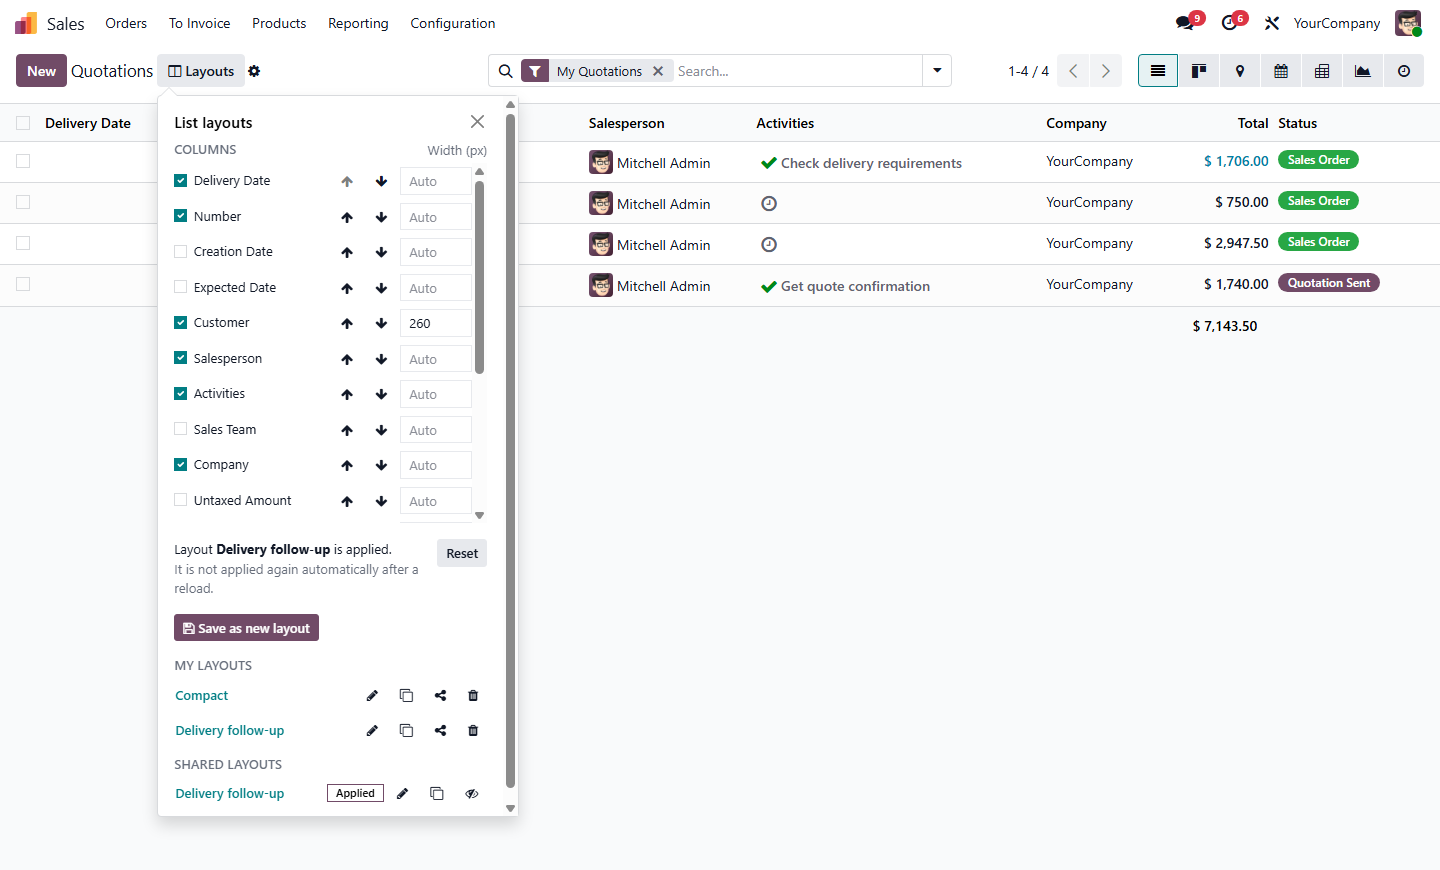
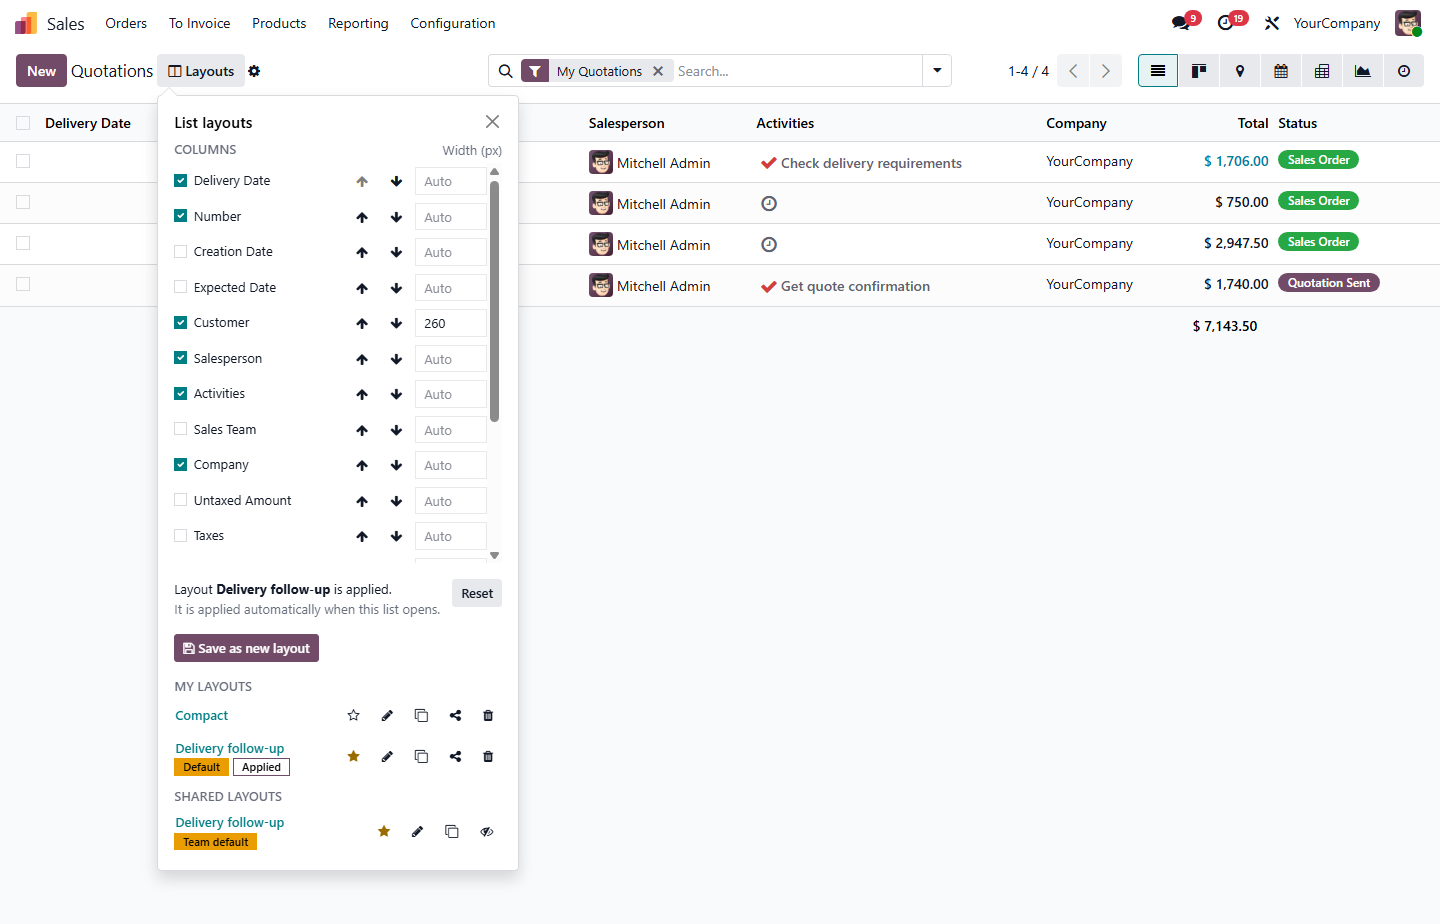
App page: readable hero, default layouts in screenshots and GIFs
- Hero and support boxes use a solid background colour: Odoo Apps strips
  CSS gradients and rgba, which left light text on white.
- Layouts panel: badges (Default, Team default, Applied) on their own line
  under the name, so names and badges are no longer cut off.
- New screenshots and banner/demo GIFs showing the starred default, the
  list after a reload and the team default for another user.

diff --git a/smart_list_view_pro/static/description/index.html b/smart_list_view_pro/static/description/index.html
@@ -1,10 +1,10 @@
 <!-- Hero -->
 <section class="oe_container" style="padding:0;">
-    <div style="background:linear-gradient(135deg,#115e59 0%,#0c3f3c 100%); border-radius:18px; padding:48px 32px 40px; color:#fff; text-align:center;">
+    <div style="background-color:#115e59; border-radius:18px; padding:48px 32px 40px; color:#fff; text-align:center;">
         <div>
             <span style="display:inline-block; background:#f59e0b; color:#2a1e00; font-weight:700; font-size:13px; padding:5px 14px; border-radius:20px; margin:0 4px 8px;">Odoo 19</span>
-            <span style="display:inline-block; background:rgba(255,255,255,.15); color:#fff; font-weight:600; font-size:13px; padding:5px 14px; border-radius:20px; margin:0 4px 8px;">Community &amp; Enterprise</span>
-            <span style="display:inline-block; background:rgba(255,255,255,.15); color:#fff; font-weight:600; font-size:13px; padding:5px 14px; border-radius:20px; margin:0 4px 8px;">Self-hosted &amp; Odoo.sh</span>
+            <span style="display:inline-block; background-color:#1f7a73; color:#fff; font-weight:600; font-size:13px; padding:5px 14px; border-radius:20px; margin:0 4px 8px;">Community &amp; Enterprise</span>
+            <span style="display:inline-block; background-color:#1f7a73; color:#fff; font-weight:600; font-size:13px; padding:5px 14px; border-radius:20px; margin:0 4px 8px;">Self-hosted &amp; Odoo.sh</span>
         </div>
         <p style="color:#d6efec; font-size:20px; max-width:760px; margin:16px auto 26px; line-height:1.5;">
             Every user sees the list the way they work. Pick the columns, put them in order, set their widths,
@@ -203,29 +203,36 @@
     </div>
 
     <div style="border:1px solid #e5e7eb; border-radius:16px; padding:24px; margin-bottom:28px;">
-        <h3 style="color:#115e59; font-weight:700;"><span style="display:inline-block; width:38px; height:38px; line-height:38px; text-align:center; border-radius:50%; background:#f59e0b; color:#2a1e00; font-size:18px; margin-right:10px;">4</span>Share it with the team</h3>
-        <p style="color:#555;"><i>My layouts</i> are private to you. Layout administrators can publish one to
-            <i>Shared layouts</i> for every internal user of that list.</p>
-        <img class="img img-fluid" src="screenshots/05_saved_and_shared_layouts.png" alt="Personal and shared layouts in the panel"
+        <h3 style="color:#115e59; font-weight:700;"><span style="display:inline-block; width:38px; height:38px; line-height:38px; text-align:center; border-radius:50%; background:#f59e0b; color:#2a1e00; font-size:18px; margin-right:10px;">4</span>Star it as your default, share it with the team</h3>
+        <p style="color:#555;">Click the <b>&#9733;</b> next to a layout to make it your <b>default</b>. <i>My layouts</i> are private to you.
+            Layout administrators can publish a layout to <i>Shared layouts</i> and star it there as the
+            <b>team default</b>.</p>
+        <img class="img img-fluid" src="screenshots/05_saved_and_shared_layouts.png" alt="Personal default and team default layouts in the panel"
              style="border-radius:10px; border:1px solid #e5e7eb;"/>
     </div>
 
     <div style="border:1px solid #e5e7eb; border-radius:16px; padding:24px; margin-bottom:28px;">
-        <h3 style="color:#115e59; font-weight:700;"><span style="display:inline-block; width:38px; height:38px; line-height:38px; text-align:center; border-radius:50%; background:#f59e0b; color:#2a1e00; font-size:18px; margin-right:10px;">5</span>Team members apply it in one click</h3>
-        <p style="color:#555;">Other users can apply a shared layout or duplicate it into their own layouts, but cannot
-            change or remove it. Columns they are not allowed to read stay hidden.</p>
-        <img class="img img-fluid" src="screenshots/06_team_layout_for_employees.png" alt="A sales user applying the shared layout"
+        <h3 style="color:#115e59; font-weight:700;"><span style="display:inline-block; width:38px; height:38px; line-height:38px; text-align:center; border-radius:50%; background:#f59e0b; color:#2a1e00; font-size:18px; margin-right:10px;">5</span>The list opens that way every time</h3>
+        <p style="color:#555;">Close the browser, reload the page, come back tomorrow: the list opens with your default layout,
+            without a click. <b>Reset</b> brings back the standard columns at any time.</p>
+        <img class="img img-fluid" src="screenshots/07_default_after_reload.png" alt="The default layout applied automatically after a reload"
+             style="border-radius:10px; border:1px solid #e5e7eb;"/>
+    </div>
+
+    <div style="border:1px solid #e5e7eb; border-radius:16px; padding:24px; margin-bottom:28px;">
+        <h3 style="color:#115e59; font-weight:700;"><span style="display:inline-block; width:38px; height:38px; line-height:38px; text-align:center; border-radius:50%; background:#f59e0b; color:#2a1e00; font-size:18px; margin-right:10px;">6</span>Every user gets the team default</h3>
+        <p style="color:#555;">Users who have not starred a layout of their own get the team default when they open the list. They can
+            duplicate it into their own layouts, but cannot change or remove it. Columns they are not allowed to
+            read stay hidden.</p>
+        <img class="img img-fluid" src="screenshots/06_team_layout_for_employees.png" alt="A sales user with the team default applied"
              style="border-radius:10px; border:1px solid #e5e7eb;"/>
     </div>
 
     <div style="border:1px solid #e5e7eb; border-radius:16px; padding:24px;">
-        <h3 style="color:#115e59; font-weight:700;"><span style="display:inline-block; width:38px; height:38px; line-height:38px; text-align:center; border-radius:50%; background:#f59e0b; color:#2a1e00; font-size:18px; margin-right:10px;">6</span>Star it as default, then work as usual</h3>
-        <p style="color:#555;">Click the <b>&#9733;</b> next to a layout and the list opens with it every time, also after a
-            reload. Layout administrators can star a shared layout to make it the <b>team default</b> for everyone who
-            has not chosen their own.</p>
+        <h3 style="color:#115e59; font-weight:700;"><span style="display:inline-block; width:38px; height:38px; line-height:38px; text-align:center; border-radius:50%; background:#f59e0b; color:#2a1e00; font-size:18px; margin-right:10px;">7</span>Work as usual</h3>
         <p style="color:#555;">Sorting, filters, grouping, pager, selection and inline editing keep working exactly as before.
-            <b>Reset</b> brings back the standard columns at any time; your saved layouts are kept.</p>
-        <img class="img img-fluid" src="screenshots/01_list_with_layout_applied.png" alt="Sales quotations list with a saved layout applied"
+            Your saved layouts are kept when you reset.</p>
+        <img class="img img-fluid" src="screenshots/01_list_with_layout_applied.png" alt="Sales quotations list with the default layout applied"
              style="border-radius:10px; border:1px solid #e5e7eb;"/>
     </div>
 </section>
@@ -322,12 +329,12 @@
 
 <!-- Support -->
 <section class="oe_container" style="margin-top:44px; margin-bottom:20px;">
-    <div style="background:linear-gradient(135deg,#115e59 0%,#0c3f3c 100%); border-radius:18px; padding:36px 24px; text-align:center; color:#fff;">
+    <div style="background-color:#115e59; border-radius:18px; padding:36px 24px; text-align:center; color:#fff;">
         <h2 style="color:#fff; font-weight:800;">Need help?</h2>
         <p style="color:#d6efec; font-size:17px; margin-bottom:22px;">Questions, issues or ideas: write to us and we will get back to you.<br/>Free support and bug fixes included.</p>
         <a href="mailto:rahul@softdeviser.com" style="display:inline-block; background:#f59e0b; color:#2a1e00; font-weight:700; padding:12px 26px; border-radius:26px; text-decoration:none; margin:4px;">
             <i class="fa fa-envelope"></i>&#160; rahul@softdeviser.com</a>
-        <a href="https://softdeviser.com" style="display:inline-block; background:rgba(255,255,255,.15); color:#fff; font-weight:600; padding:12px 26px; border-radius:26px; text-decoration:none; margin:4px;">
+        <a href="https://softdeviser.com" style="display:inline-block; background-color:#1f7a73; color:#fff; font-weight:600; padding:12px 26px; border-radius:26px; text-decoration:none; margin:4px;">
             <i class="fa fa-globe"></i>&#160; softdeviser.com</a>
         <p style="color:#a7d4cf; font-size:13px; margin-top:20px;">by Softdeviser</p>
     </div>

diff --git a/smart_list_view_pro/static/src/scss/layout.scss b/smart_list_view_pro/static/src/scss/layout.scss
@@ -10,8 +10,13 @@
     }
 
     .o_smart_list_column_label,
+    .o_smart_list_preset_label,
     .o_smart_list_apply {
         min-width: 0;
+    }
+
+    .o_smart_list_preset > .btn {
+        flex: 0 0 auto;
     }
 
     .o_smart_list_width {
